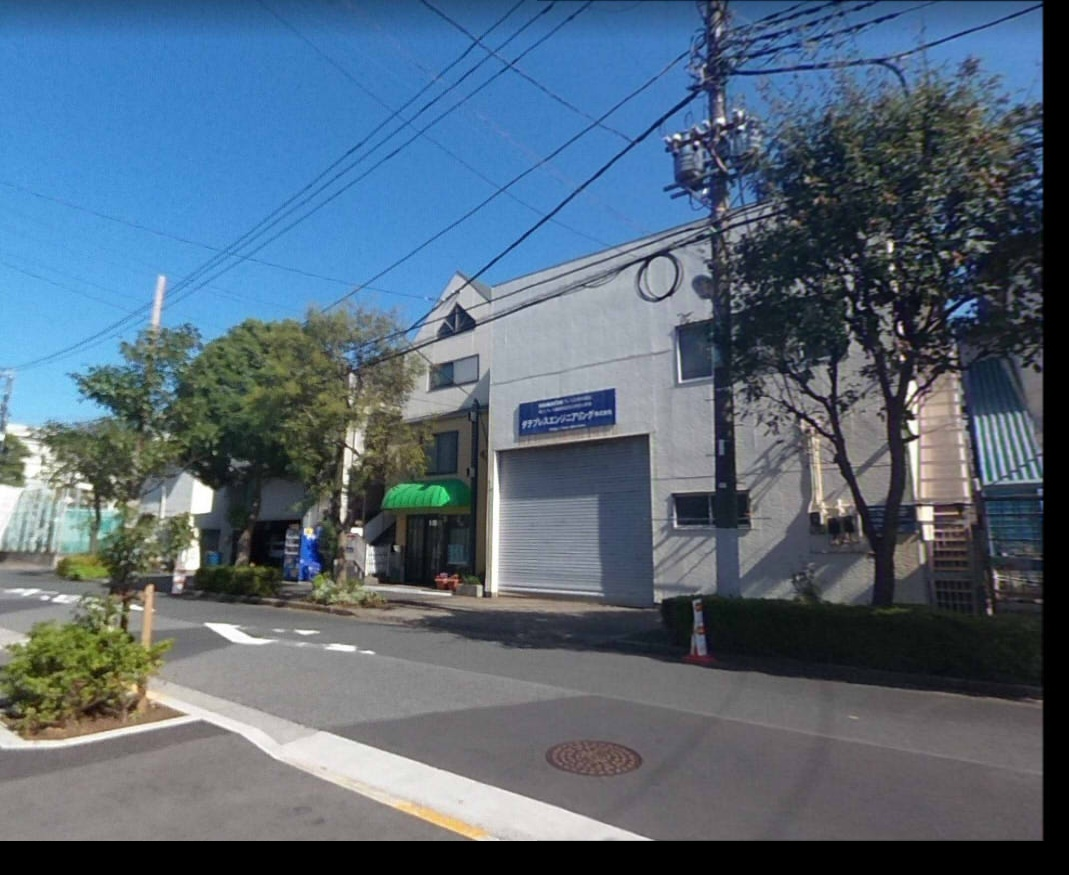
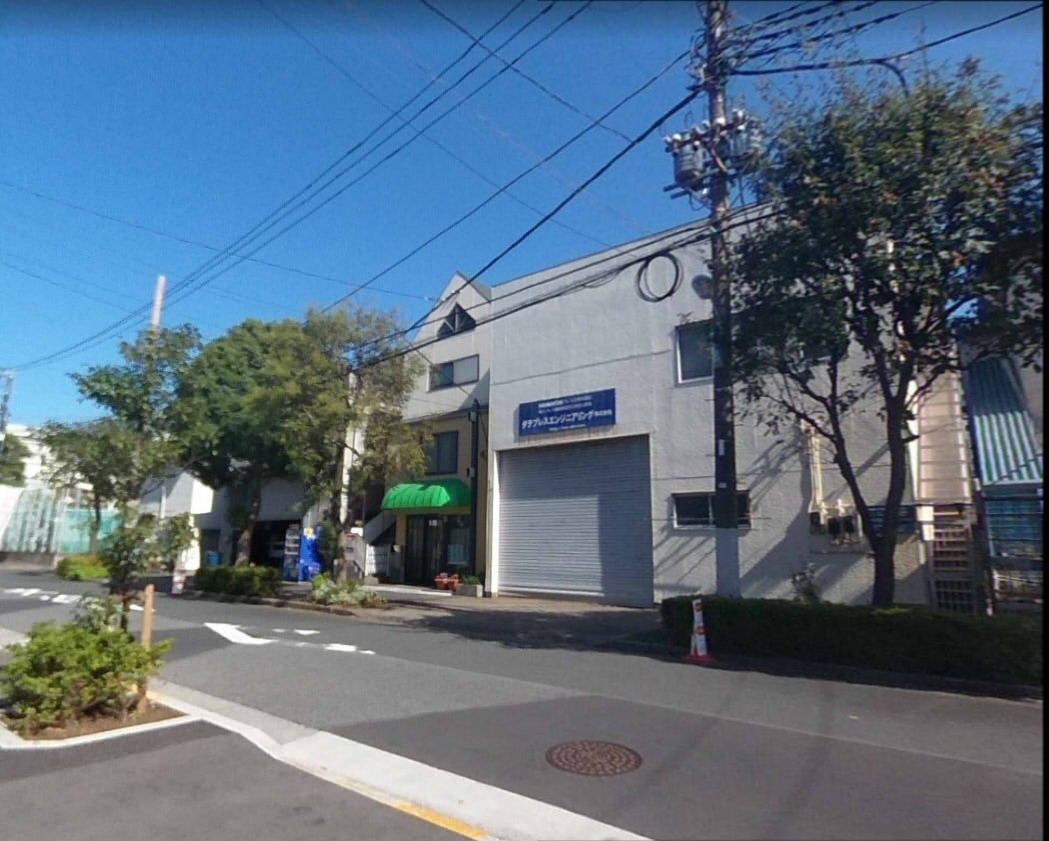
add crop

diff --git a/main.py b/main.py
@@ -113,6 +113,20 @@ def compute_ssim_for_overlap(img1, img2, overlap_coords):
     
     return ssim(overlap1_gray, overlap2_gray, data_range=255)
 
+def crop_black_border(img):
+    """自動裁切全黑邊界區域"""
+    if len(img.shape) == 3:
+        gray = cv2.cvtColor(img, cv2.COLOR_BGR2GRAY)
+    else:
+        gray = img
+    _, thresh = cv2.threshold(gray, 1, 255, cv2.THRESH_BINARY)
+    coords = cv2.findNonZero(thresh)
+    if coords is None:
+        return img  # 全黑直接回傳
+    x, y, w, h = cv2.boundingRect(coords)
+    cropped = img[y:y+h, x:x+w]
+    return cropped
+
 def process_image_pair(left_path, right_path, output_dir, filename):
     """Process a pair of images and return overlap coordinates."""
     left_img = cv2.imread(left_path)
@@ -147,6 +161,9 @@ def process_image_pair(left_path, right_path, output_dir, filename):
     
     # Stitch images
     result = stitch_images(left_img, right_img, H, output_shape)
+    
+    # 裁切黑邊
+    result = crop_black_border(result)
     
     # Get overlap coordinates
     overlap_coords = get_overlap_coordinates(left_img, right_img, H)
